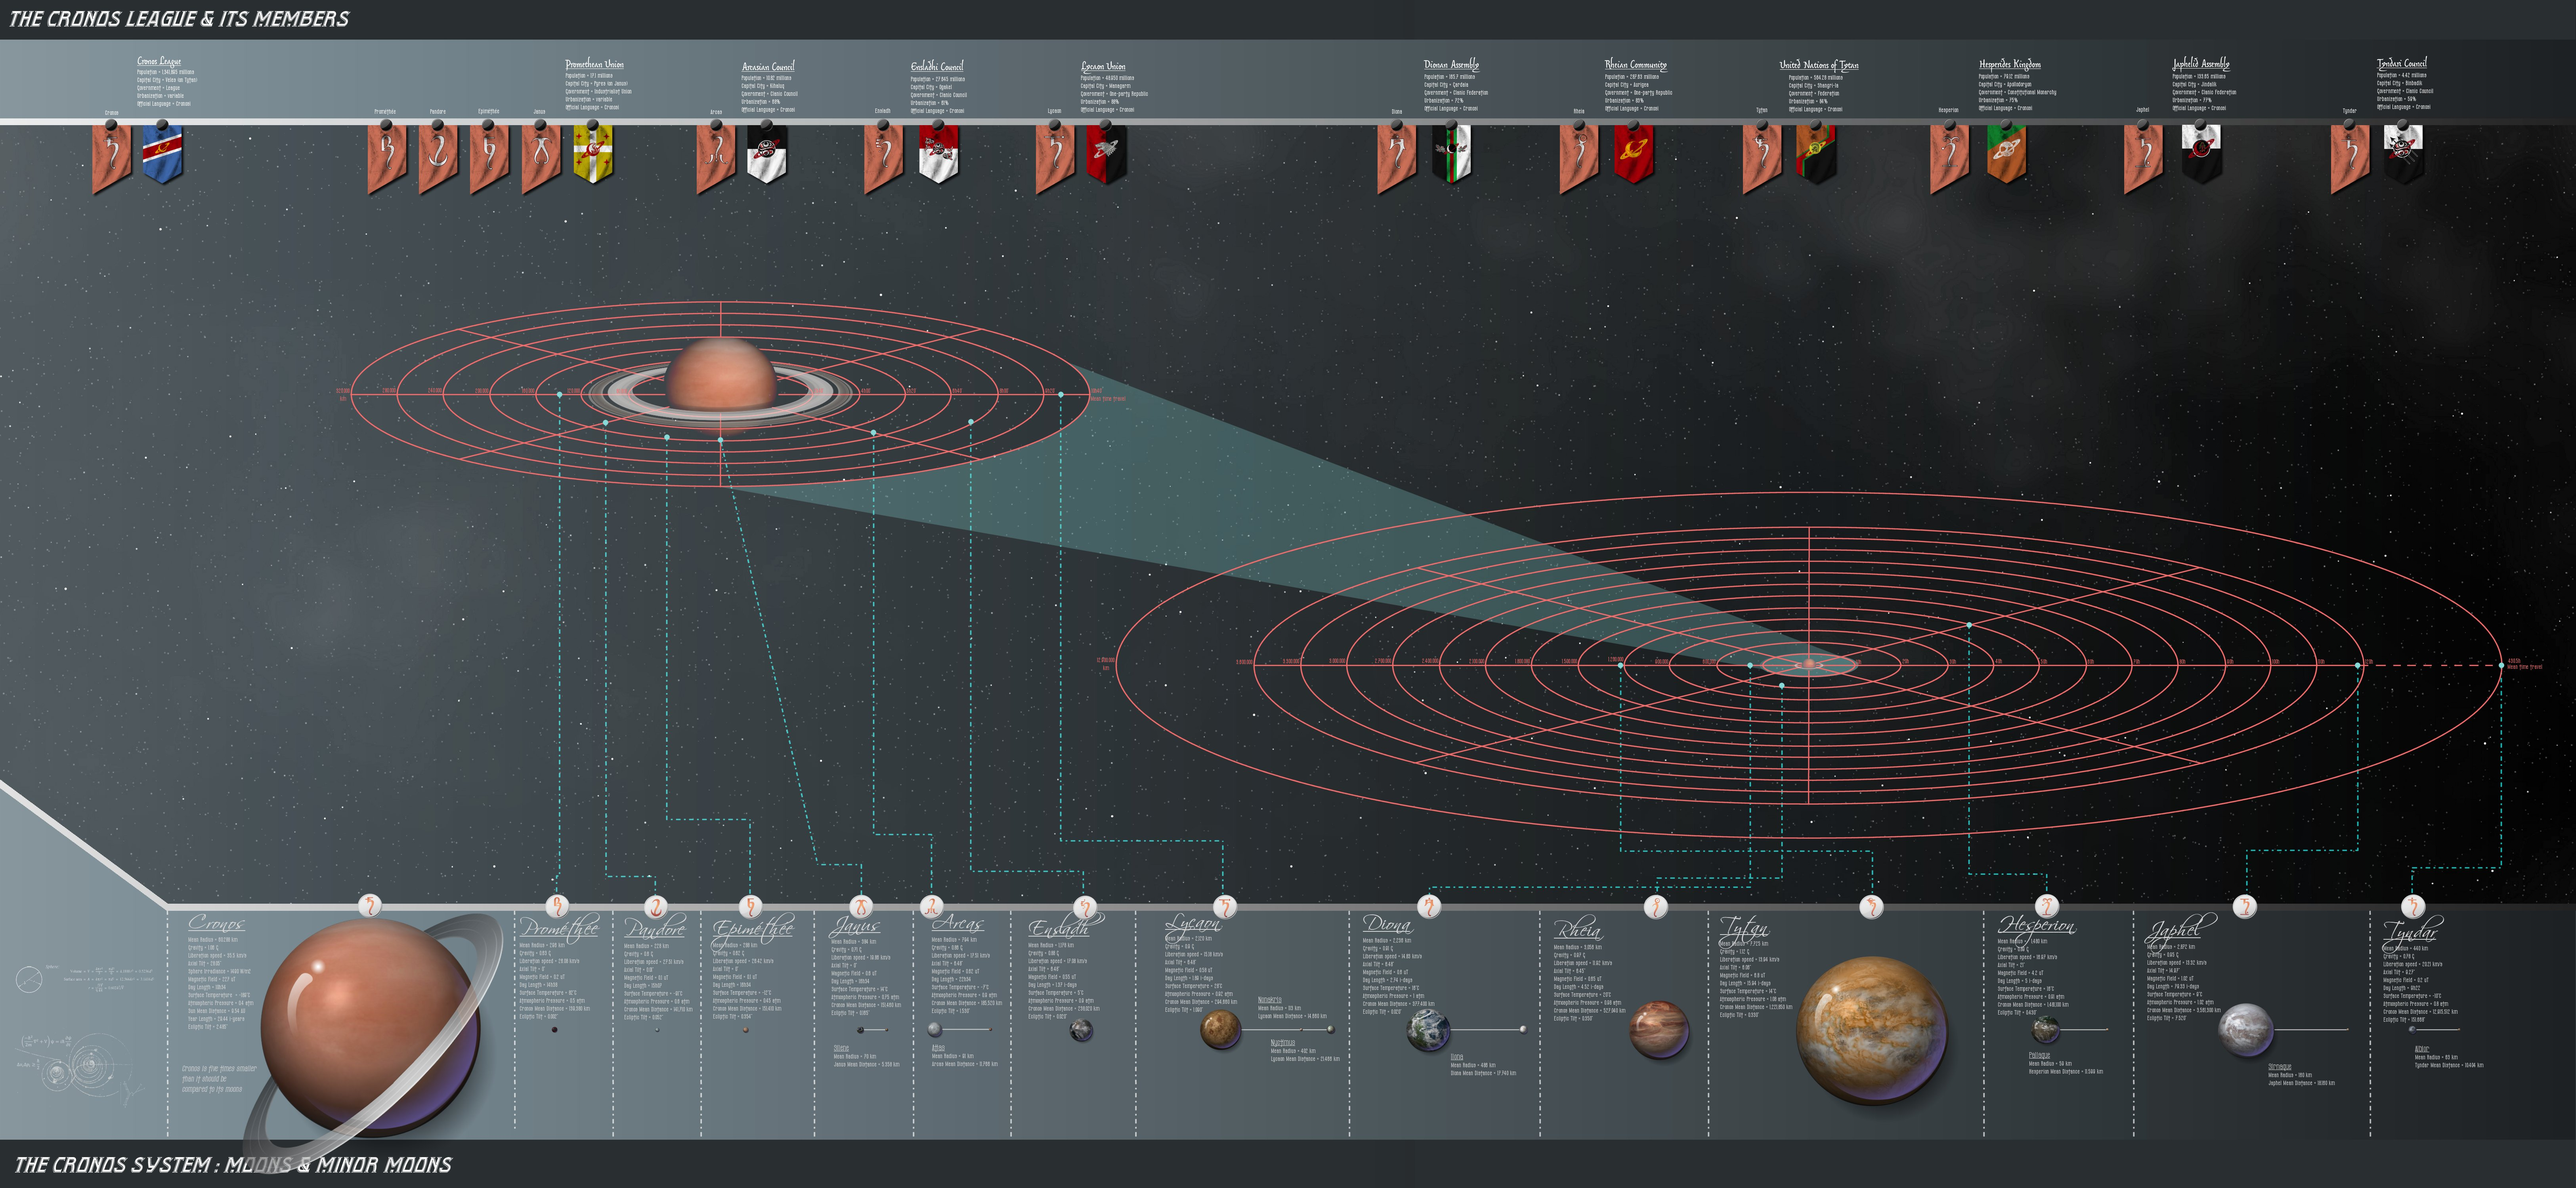
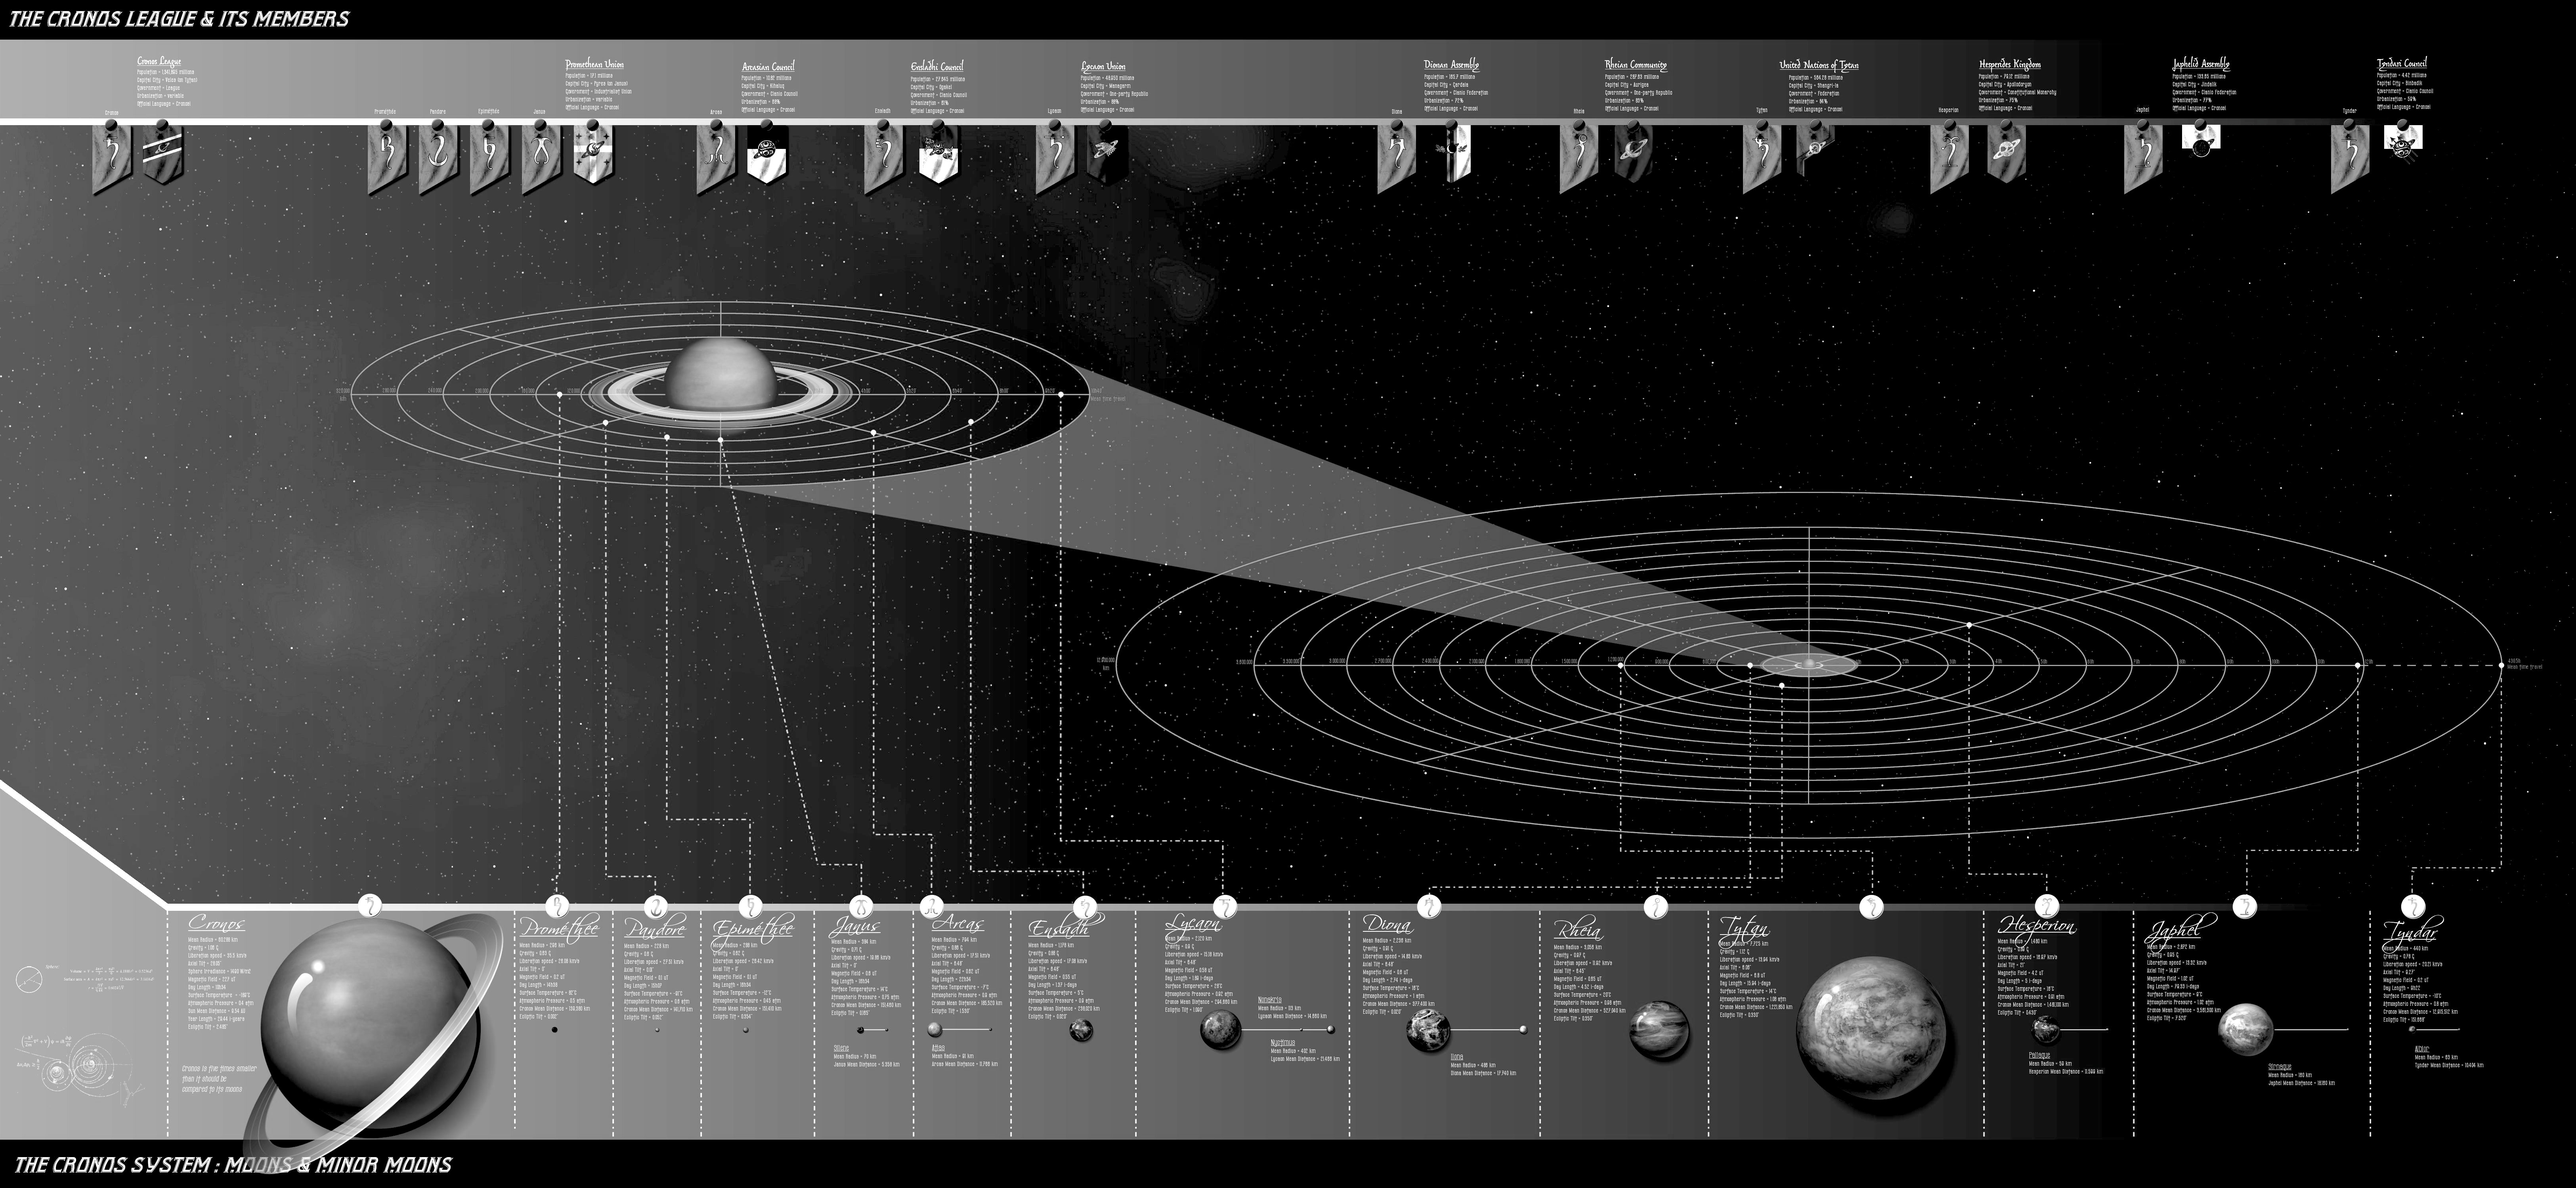
add splash image and edit the two map placeholders to b&w

diff --git a/server/web/home/index.jsx b/server/web/home/index.jsx
@@ -18,13 +18,7 @@ var Component = React.createClass({
                     <p className="lead">
                         A collaborative online storytelling game in the electrosonic flow.
                         <div>
-                            <a className="btn btn-primary btn-lg" href="/signup">
-                                Enter the Fray
-                            </a>
-                            &nbsp; or &nbsp;
-                            <a className="btn btn-warning btn-lg" href="/login/forgot">
-                                Host a Game
-                            </a>
+                            <img src="public/media/scapemin2.png" class="img-responsive" width="800"/>
                         </div>
                     </p>
                 </div>
